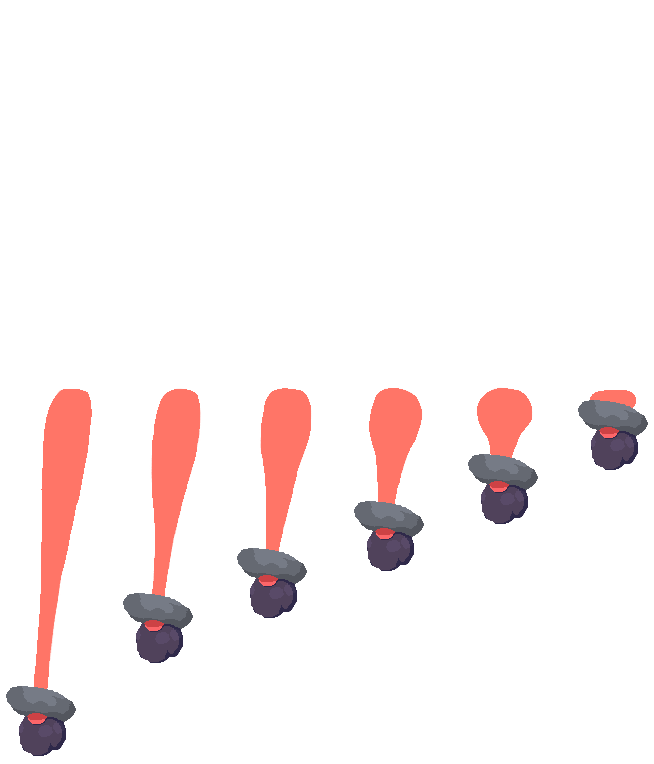
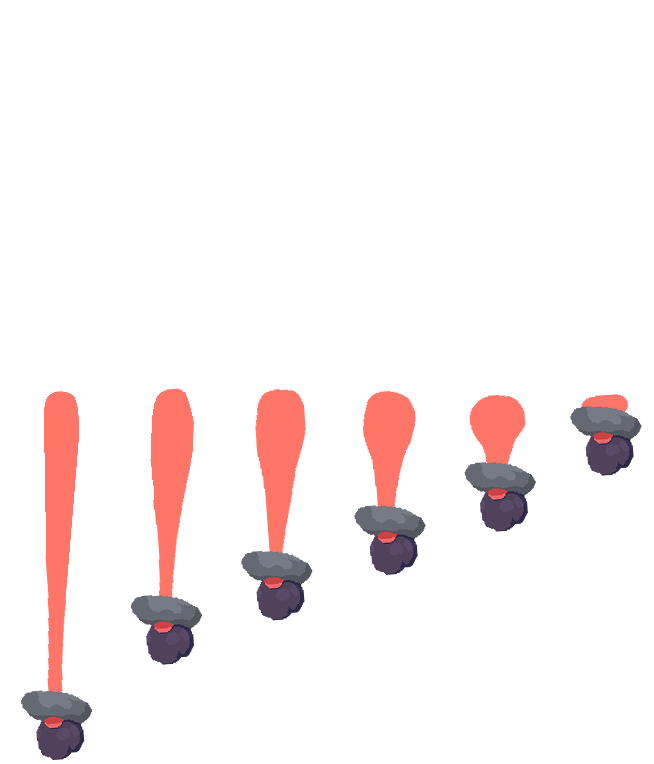
보스 배치함

diff --git a/boss.cpp b/boss.cpp
@@ -10,24 +10,31 @@ void boss::set()
 	_attack1.y = -40;
 	_attack1.speed = 8.f;
 	_attack1.img = ImageManager::GetInstance()->FindImage("bossHand");
-	_attack2._angle = 30.f;
+	_attack2.angle = 40.f;
+	_attack2.index = 5;
 	_attack2.img = ImageManager::GetInstance()->FindImage("bossLong");
 }
 
 void boss::render()
 {
-	_img->aniRender(Vector2(_x, _y), _motion, 1.25f);
-	_attack1.img->FrameRender(Vector2(_attack1.x, _attack1.y), _attack1.index, 0);
-	_attack1.img->SetScale(1.25f);
-	D2DRenderer::GetInstance()->FillRectangle(_attack2.rc, D2D1::ColorF::Black, 0.7f);
-	_attack2.img->FrameRender(Vector2(_attack2.x, _attack2.y), _attack2.index, 0);
-	_attack2.img->SetScale(1.25f);
-	_attack2.img->SetAngle(_attack2._angle);
+	//_img->aniRender(Vector2(_x, _y), _motion, 1.25f);
+	CAMERAMANAGER->aniRender(_img, _x, _y, _motion, 1.6f);
+	CAMERAMANAGER->frameRender(_attack1.img, _attack1.x, _attack1.y, _attack1.index, 0);
+	_attack1.img->SetScale(1.6f);
+	CAMERAMANAGER->frameRender(_attack2.img, _attack2.x, _attack2.y, _attack2.index, 0);
+	_attack2.img->SetAngle(_attack2.angle);
+	_attack2.img->SetScale(1.6f);
+	//_attack1.img->FrameRender(Vector2(_attack1.x, _attack1.y), _attack1.index, 0);
+	//_attack1.img->SetScale(1.5f);
+	//_attack2.img->FrameRender(Vector2(_attack2.x, _attack2.y), _attack2.index, 0);
+	//_attack2.img->SetScale(1.5f);
+	//_attack2.img->SetAngle(_attack2.angle);
+	//D2DRenderer::GetInstance()->FillRectangle(_attack2.rc, D2D1::ColorF::Black, 0.7f);
 }
 
 void boss::attack()
 {
-	attack2();
+	attack1();
 }
 
 void boss::dead()
@@ -186,7 +193,8 @@ void boss::attack2()
 			_isBossAttack = false;
 		}
 	}
-	if (_isBossAttackEnd)
+	if (_attack2.index >= 5)
+	
 	{
 
 		if (!KEYANIMANAGER->findAnimation(_index, "bossHandFly3")->isPlay())
@@ -194,7 +202,7 @@ void boss::attack2()
 			_motion = KEYANIMANAGER->findAnimation(_index, "boss");
 			_img = ImageManager::GetInstance()->FindImage("boss");
 			_motion->start();
-			_state = _idle;
+			//_state = _idle;
 			_isBossAttackEnd = false;
 			_isAttack = false;
 			_attackDelay = 0;
@@ -260,16 +268,55 @@ void boss::attack1_1()
 
 void boss::attack2_1()
 {
-	_attack2.x = _x - 140;
-	_attack2.y = _y + 30;
+	_attack2.aniDelayCount++;
+	if (_attack2.aniDelayCount >4)
+	{
+		_attack2.index--;
+		_attack2.aniDelayCount = 0;
+	}
+	_attack2.x = _x - 120;
+	_attack2.y = _y;
 	_attack2.width = 10;
 	_attack2.height = 10;
 	_attack2.rc = RectMakePivot(Vector2(_attack2.x, _attack2.y), Vector2(_attack2.width, _attack2.height), Pivot::LeftTop);
-	//if (!_attack2.isBottom)
-	//{
-	//	_attack2.
-	//}
 
-
+	if (_attack2.index <= 0)
+	{
+		_attack2.index = 0;
+	}
+	if (!_attack2.isBottom)
+	{
+		cout << _attack2.angle << endl;
+		_attack2.angle--;
+		if (_attack2.angle <= -60.f)
+		{
+			_attack2.isBottom = true;
+		}
+	}
+	if (_attack2.isBottom)
+	{
+		_attack2.angle++;
+		{
+			if (_attack2.angle >= 40.f)
+			{
+				_attack2.isBottom = false;
+				_attack2.count++;
+			}
+		}
+	}
+	if (_attack2.count > 3)
+	{
+		if (_attack2.aniDelayCount > 4)
+		{
+			_attack2.index++;
+			_attack2.aniDelayCount = 0;
+		}
+		if (_attack2.index >= 5)
+		{
+			_attack2.index = 5;
+			_attack2.count = 0;
+		}
+	}
+	
 }
 

diff --git a/enemyManager.cpp b/enemyManager.cpp
@@ -35,8 +35,8 @@ void enemyManager::release()
 
 void enemyManager::update()
 {
-	_x = _player->getX();
-	_y = _player->getY();
+	_x = _player->getShadowX();
+	_y = _player->getShadowY();
 	_bulletDelay++;
 	for (int i = 0; i < _vEnemy.size(); ++i)
 	{
@@ -97,7 +97,7 @@ void enemyManager::update()
 	}
 
 	EFFECTMANAGER->update();
-	_rc = RectMakePivot(Vector2(_x, _y), Vector2(50, 50), Pivot::Center);
+	_rc = RectMakePivot(Vector2(_player->getShadowX(), _player->getShadowY()), Vector2(50, 50), Pivot::Center);
 }
 
 void enemyManager::render()
@@ -120,9 +120,11 @@ void enemyManager::setEnemy()
 	enemy* boss1;
 	boss1 = new boss;
 	boss1->playerCheck(_x, _y, _rc);
-	boss1->init(i, 500, 200, 250, 300, ENEMY_BOSS);
+	boss1->init(i, 1360, 300, 250, 300, ENEMY_BOSS);
 	_vEnemy.push_back(boss1);
-	/*enemy* redS1;
+
+	i++;
+	enemy* redS1;
 	redS1 = new redSlime;
 	redS1->playerCheck(_x, _y, _rc);
 	redS1->init(i, 200, 200, 70, 70, ENEMY_RED_SLIME);
@@ -137,43 +139,43 @@ void enemyManager::setEnemy()
 	_vEnemy.push_back(gol1);
 
 	
-	i++;
+	//i++;
 
-	enemy* pot1;
-	pot1 = new pot;
-	pot1->playerCheck(_x, _y, _rc);
-	pot1->init(i , 1200, 500, 50, 50, ENEMY_POT);
-	_vEnemy.push_back(pot1);
+	//enemy* pot1;
+	//pot1 = new pot;
+	//pot1->playerCheck(_x, _y, _rc);
+	//pot1->init(i , 1200, 500, 50, 50, ENEMY_POT);
+	//_vEnemy.push_back(pot1);
 
-	
-	i++;
+	//
+	//i++;
 
 
-	enemy* pot2;
-	pot2 = new pot;
-	pot2->playerCheck(_x, _y, _rc);
-	pot2->init(i, 200, 300, 50, 50, ENEMY_POT);
-	pot2->setPotDirection(POT_RIGHT);
-	_vEnemy.push_back(pot2);
+	//enemy* pot2;
+	//pot2 = new pot;
+	//pot2->playerCheck(_x, _y, _rc);
+	//pot2->init(i, 200, 300, 50, 50, ENEMY_POT);
+	//pot2->setPotDirection(POT_RIGHT);
+	//_vEnemy.push_back(pot2);
 
-	
-	i++;
+	//
+	//i++;
 
-	enemy* yelS1;
-	yelS1 = new anotherSlime;
-	yelS1->playerCheck(_x, _y, _rc);
-	yelS1->init(i , 200, 100, 30, 30, ENEMY_YELLOW_SLIME);
-	_vEnemy.push_back(yelS1);
+	//enemy* yelS1;
+	//yelS1 = new anotherSlime;
+	//yelS1->playerCheck(_x, _y, _rc);
+	//yelS1->init(i , 200, 100, 30, 30, ENEMY_YELLOW_SLIME);
+	//_vEnemy.push_back(yelS1);
 
-	i++;
+	//i++;
 
-	enemy* bleS1;
-	bleS1 = new anotherSlime;
-	bleS1->playerCheck(_x, _y, _rc);
-	bleS1->init(i, 400, 100, 30, 30, ENEMY_BLUE_SLIME);
-	_vEnemy.push_back(bleS1);
+	//enemy* bleS1;
+	//bleS1 = new anotherSlime;
+	//bleS1->playerCheck(_x, _y, _rc);
+	//bleS1->init(i, 400, 100, 30, 30, ENEMY_BLUE_SLIME);
+	//_vEnemy.push_back(bleS1);
 
-*/
+
 
 }
 

diff --git a/enemy.cpp b/enemy.cpp
@@ -135,13 +135,15 @@ void enemy::update()
 void enemy::render()
 {
 	_aStar->render();
-	_img->aniRender(Vector2(_x, _y), _motion, _scale);
+	//_img->aniRender(Vector2(_x, _y), _motion, _scale);
+	CAMERAMANAGER->aniRender(_img, _x, _y, _motion, _scale);
 
-	D2DRenderer::GetInstance()->FillRectangle(_bar.back, D2D1::ColorF::DimGray, _barAlpha);
+	/*D2DRenderer::GetInstance()->FillRectangle(_bar.back, D2D1::ColorF::DimGray, _barAlpha);
 	D2DRenderer::GetInstance()->FillRectangle(_bar.middle, D2D1::ColorF::LightSalmon, _barAlpha);
-	D2DRenderer::GetInstance()->FillRectangle(_bar.front, D2D1::ColorF::Tomato, _barAlpha);
+	D2DRenderer::GetInstance()->FillRectangle(_bar.front, D2D1::ColorF::Tomato, _barAlpha);*/
 	//FloatRect rc = (RectMakePivot(Vector2(_x, _z), Vector2(10, 10), Pivot::Center));
 	//D2DRenderer::GetInstance()->FillRectangle(_rc, D2D1::ColorF::Brown, 0.5f);
+	//CAMERAMANAGER->render(_playerShadowImg, _playerShadowX - 35, _playerShadowY - 50, 0.3f);
 	
 }
 

diff --git a/dungeonStage.cpp b/dungeonStage.cpp
@@ -10,12 +10,12 @@ HRESULT dungeonStage::init()
 
 	_player = new player;
 	_player->init(500, 500);
-	_enemy = new enemyManager;
-	_enemy->setPlayerLink(_player);
-	_enemy->init();
+	//_enemy = new enemyManager;
+	//_enemy->setPlayerLink(_player);
+	//_enemy->init();
 
 
-	loadDungeonMap();
+	//loadDungeonMap();
 	
 
 
@@ -27,7 +27,7 @@ void dungeonStage::render()
 	renderDungeonMap();
 	//CAMERAMANAGER->render(ImageManager::GetInstance()->FindImage("dungeonBackground"), 0, 0);
 	_player->render();
-	_enemy->render();
+	//_enemy->render();
 
 	//D2DRenderer::GetInstance()->DrawRectangle(_rc, D2DRenderer::DefaultBrush::Black, 1.f);
 }
@@ -35,7 +35,10 @@ void dungeonStage::render()
 void dungeonStage::update()
 {
 	_player->update();
-	_enemy->update();
+	//_enemy->update();
+
+	//CAMERAMANAGER->setX();
+	//CAMERAMANAGER->
 	//_rc = RectMakePivot(Vector2(_x, _y), Vector2(50, 50), Pivot::Center);
 
 }

diff --git a/bossStage.cpp b/bossStage.cpp
@@ -6,8 +6,12 @@ HRESULT bossStage::init()
 	_mapImg = ImageManager::GetInstance()->AddImage("bossRoom", L"Image/Map/bossRoom.png");
 	CAMERAMANAGER->settingCamera(0, 0, WINSIZEX, WINSIZEY, 0, 0,3000 - WINSIZEX, 2030 - WINSIZEY);
 
+	_enemy = new enemyManager;
 	_player = new player;
 	_player->init(1500,1000);
+	_enemy->setPlayerLink(_player);
+
+	_enemy->init();
 	return S_OK;
 }
 
@@ -15,11 +19,13 @@ void bossStage::render()
 {
 	CAMERAMANAGER->render(_mapImg, 0, 0, 1);
 	_player->render();
+	_enemy->render();
 }
 
 void bossStage::update()
 {
 	_player->update();
+	_enemy->update();
 	CAMERAMANAGER->setXY(_player->getX(), _player->getY());
 }
 

diff --git a/bossStage.h b/bossStage.h
@@ -1,11 +1,13 @@
 #pragma once
 #include "gameNode.h"
 #include "player.h"
+#include "enemyManager.h"
 class bossStage : public gameNode
 {
 private:
 	Image*  _mapImg;
 	player*  _player;
+	enemyManager* _enemy;
 
 public:
 

diff --git a/enemyManager.h b/enemyManager.h
@@ -41,6 +41,7 @@ public:
 	void bulletCol();
 	void enemyDead(int arr);
 
+	enemy* getEnemy() { return _enemy; }
 	FloatRect getPlayerRc() { return _rc; }
 	void setPlayerLink(player* player) { _player = player; }
 };

diff --git a/boss.h b/boss.h
@@ -12,7 +12,7 @@ struct tagAttack1
 	float x, y;
 	float speed;
 	float width, height;
-	float _angle;
+	float angle;
 	bool isBottom;
 	bool onceImage;
 	int xRandom;
